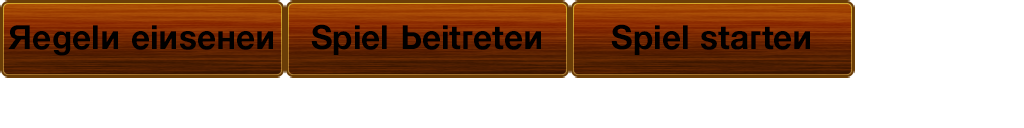
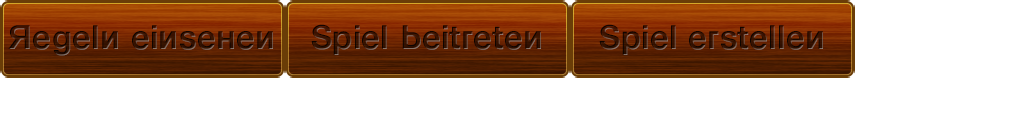
-Buttons sind nicht mehr einfach schwarz beschrieben. -Buttons sind jetzt mit libgdx und TabletLayout proportional angeordnet und sollten auch auf verschieden großen Bildschirmen relativ zum Bildschirm richtig positioniert sein.

Changed region(s): [[0.0, 0.1875, 0.5312, 0.4375], [0.5625, 0.1875, 0.8125, 0.4375]]

diff --git a/core/src/com/jojoni/kartenspiel/screens/GameScreen.java b/core/src/com/jojoni/kartenspiel/screens/GameScreen.java
@@ -24,116 +24,15 @@ import com.jojoni.kartenspiel.SekaGame;
 public class GameScreen implements Screen {
     final SekaGame game;
 
-    Texture dropImage;
-    Texture bucketImage;
-    Sound dropSound;
-    Music rainMusic;
-    OrthographicCamera camera;
-    Rectangle bucket;
-    Array<Rectangle> raindrops;
-    long lastDropTime;
-    int dropsGathered;
 
     public GameScreen(final SekaGame gam) {
         this.game = gam;
 
-        // load the images for the droplet and the bucket, 64x64 pixels each
-        dropImage = new Texture(Gdx.files.internal("droplet.png"));
-        bucketImage = new Texture(Gdx.files.internal("bucket.png"));
-
-        // load the drop sound effect and the rain background "music"
-        dropSound = Gdx.audio.newSound(Gdx.files.internal("drop.wav"));
-        rainMusic = Gdx.audio.newMusic(Gdx.files.internal("rain.mp3"));
-        rainMusic.setLooping(true);
-
-        // create the camera and the SpriteBatch
-        camera = new OrthographicCamera();
-        camera.setToOrtho(false, 800, 480);
-
-        // create a Rectangle to logically represent the bucket
-        bucket = new Rectangle();
-        bucket.x = 800 / 2 - 64 / 2; // center the bucket horizontally
-        bucket.y = 20; // bottom left corner of the bucket is 20 pixels above
-        // the bottom screen edge
-        bucket.width = 64;
-        bucket.height = 64;
-
-        // create the raindrops array and spawn the first raindrop
-        raindrops = new Array<Rectangle>();
-        spawnRaindrop();
-
-    }
-
-    private void spawnRaindrop() {
-        Rectangle raindrop = new Rectangle();
-        raindrop.x = MathUtils.random(0, 800 - 64);
-        raindrop.y = 480;
-        raindrop.width = 64;
-        raindrop.height = 64;
-        raindrops.add(raindrop);
-        lastDropTime = TimeUtils.nanoTime();
     }
 
     @Override
     public void render(float delta) {
-        // clear the screen with a dark blue color. The
-        // arguments to glClearColor are the red, green
-        // blue and alpha component in the range [0,1]
-        // of the color to be used to clear the screen.
-        Gdx.gl.glClearColor(0, 0, 0.2f, 1);
-        Gdx.gl.glClear(GL20.GL_COLOR_BUFFER_BIT);
 
-        // tell the camera to update its matrices.
-        camera.update();
-
-        // tell the SpriteBatch to render in the
-        // coordinate system specified by the camera.
-        game.batch.setProjectionMatrix(camera.combined);
-
-        // begin a new batch and draw the bucket and
-        // all drops
-        game.batch.begin();
-        game.font.draw(game.batch, "Drops Collected: " + dropsGathered, 0, 480);
-        game.batch.draw(bucketImage, bucket.x, bucket.y);
-        for (Rectangle raindrop : raindrops) {
-            game.batch.draw(dropImage, raindrop.x, raindrop.y);
-        }
-        game.batch.end();
-
-        // process user input
-        if (Gdx.input.isTouched()) {
-
-            Vector3 touchPos = new Vector3();
-            touchPos.set(Gdx.input.getX(), Gdx.input.getY(), 0);
-            camera.unproject(touchPos);
-            bucket.x = touchPos.x - 64 / 2;
-        }
-
-        // make sure the bucket stays within the screen bounds
-        if (bucket.x < 0)
-            bucket.x = 0;
-        if (bucket.x > 800 - 64)
-            bucket.x = 800 - 64;
-
-        // check if we need to create a new raindrop
-        if (TimeUtils.nanoTime() - lastDropTime > 1000000000)
-            spawnRaindrop();
-
-        // move the raindrops, remove any that are beneath the bottom edge of
-        // the screen or that hit the bucket. In the later case we increase the
-        // value our drops counter and add a sound effect.
-        Iterator<Rectangle> iter = raindrops.iterator();
-        while (iter.hasNext()) {
-            Rectangle raindrop = iter.next();
-            raindrop.y -= 200 * Gdx.graphics.getDeltaTime();
-            if (raindrop.y + 64 < 0)
-                iter.remove();
-            if (raindrop.overlaps(bucket)) {
-                dropsGathered++;
-                dropSound.play();
-                iter.remove();
-            }
-        }
     }
 
     @Override
@@ -142,9 +41,7 @@ public class GameScreen implements Screen {
 
     @Override
     public void show() {
-        // start the playback of the background music
-        // when the screen is shown
-        rainMusic.play();
+
     }
 
     @Override
@@ -161,10 +58,7 @@ public class GameScreen implements Screen {
 
     @Override
     public void dispose() {
-        dropImage.dispose();
-        bucketImage.dispose();
-        dropSound.dispose();
-        rainMusic.dispose();
+
     }
 
 }

diff --git a/core/src/com/jojoni/kartenspiel/SekaGame.java b/core/src/com/jojoni/kartenspiel/SekaGame.java
@@ -13,12 +13,12 @@ public class SekaGame  extends Game {
 
 
 	public SpriteBatch batch;
-	public BitmapFont font;
+//	public BitmapFont font;
 
 	public void create() {
 		batch = new SpriteBatch();
 		//Use LibGDX's default Arial font.
-		font = new BitmapFont();
+//		font = new BitmapFont();
 		this.setScreen(new MainMenuScreen(this));
 	}
 
@@ -28,7 +28,7 @@ public class SekaGame  extends Game {
 
 	public void dispose() {
 		batch.dispose();
-		font.dispose();
+//		font.dispose();
 	}
 
 }
